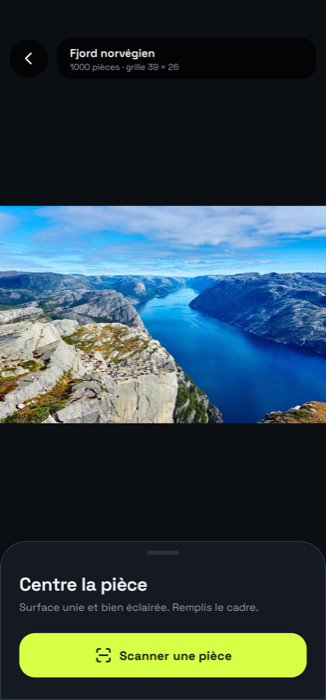
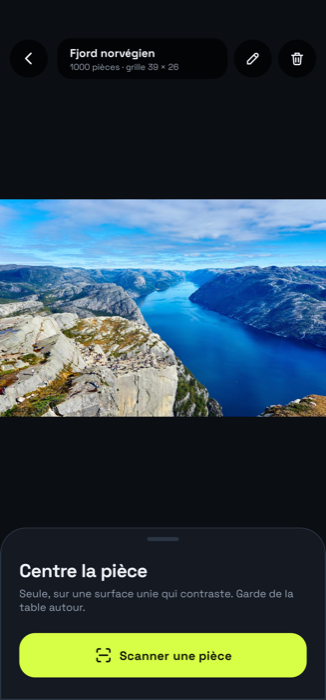
docs: README screenshots with the new lead display

diff --git a/README.md b/README.md
@@ -9,8 +9,9 @@ how to turn it, and how sure it is. Android, Kotlin, fully offline.
 |---|---|---|
 | ![](documentation/screenshots/list.png) | ![](documentation/screenshots/table_real.png) | ![](documentation/screenshots/result_real.png) |
 
-A piece cut from the fjord photo, turned 90° and laid on a dark table: found at its exact cell, with the right
-rotation and 88 % confidence.
+A piece cut from the fjord photo, turned 90° and laid on a dark table: found at its exact cell (row 20, column 10)
+with the right rotation and 85 % confidence. The sheet shows the piece turned the right way next to the box at that
+lead, and every lead is a piece-sized square on the map.
 
 <details>
 <summary>More states (from the instrumented tests, synthetic box art)</summary>
